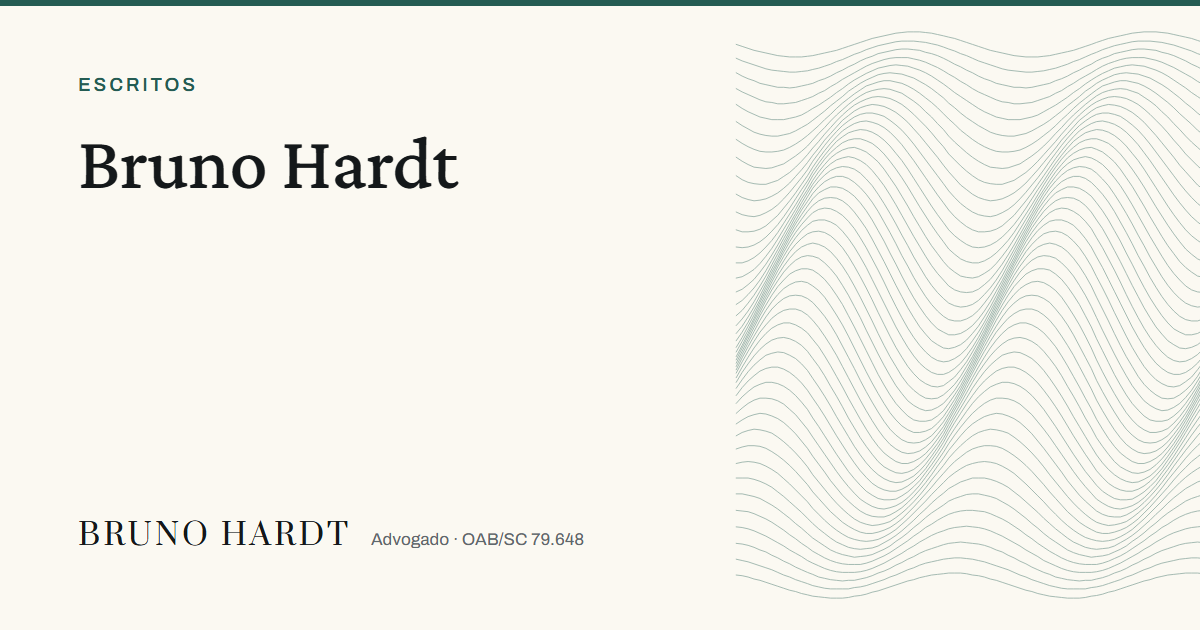
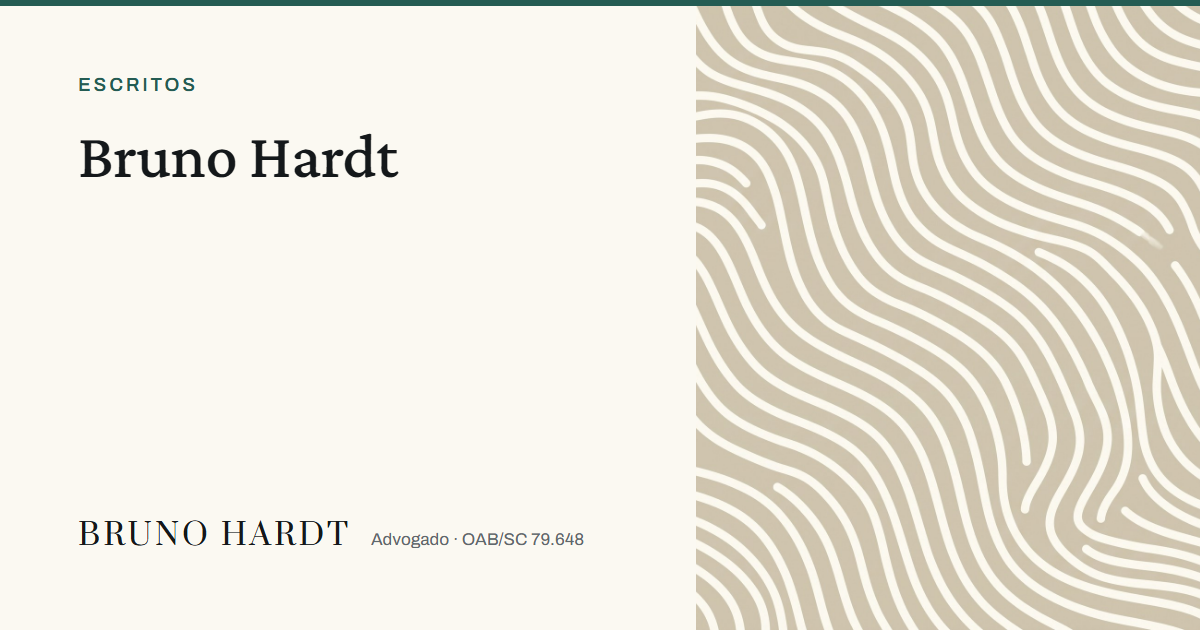
feat(chapas): a arte de ondas entra, e a tipografia sai de cima dela
As duas chapas de compartilhamento deixam de usar o guilhoche do escrito e
passam a usar uma arte so, reaproveitada em todos -- que e o que a Sullivan &
Cromwell faz na peca editorial: forma abstrata neutra, dois tons, contraste
baixo, sem relacao com o assunto. O sentido e do titulo; a imagem da peso.

Cada formato usa a arte cortada no proprio eixo longo: `onda-alta.jpg` na
tarja vertical da previa de link (504px a direita), `onda-larga.jpg` na faixa
do topo do feed (700px). Cortar contra o eixo esmaga o desenho.

E a tipografia deixou de flutuar sobre a figura: agora a caixa recua e o
titulo fica no marfim, ao lado da arte. E assim na referencia, e e o que
mantem o titulo legivel sobre um padrao.

As duas artes chegaram em 2,1 MB cada; foram reduzidas fora da montagem (o
Pillow nao e dependencia do build) para 195 e 213 KB, que e o suficiente para
as chapas em 1x.

O guilhoche continua na pagina -- cartao da capa e faixa do artigo. A excecao
esta escrita na ESPEC 3.

diff --git a/og.py b/og.py
@@ -27,21 +27,31 @@ SAIDA = os.path.join(ATIVOS, "og")
 # nao substitui o outro -- recortar a deitada em quadrado perde o titulo pelas
 # bordas, porque ela foi desenhada deitada. So a primeira e exigida pela
 # montagem; a de feed nao afeta o site e por isso nao derruba o build.
+# A arte e uma so, reaproveitada em todo escrito -- e o que a Sullivan &
+# Cromwell faz na peca editorial: forma abstrata neutra, dois tons, contraste
+# baixo, sem relacao com o assunto do texto. Quem carrega o sentido e o titulo.
+#
+# Cada formato usa a arte cortada no proprio eixo longo: a em pe na tarja
+# vertical da previa, a deitada na faixa do feed. Cortar contra o eixo esmaga
+# o desenho e some com o movimento das linhas.
+#
+# A tipografia nunca fica POR CIMA da arte: fica ao lado, no marfim. E assim
+# na referencia, e e o que mantem o titulo legivel.
 FORMATOS = (
     dict(sufixo=u"", larg=1200, alt=630,
-         pad=u"74px 78px", alto=u"720px",
-         fig=u"right:-150px;top:50%;transform:translateY(-50%);"
-             u"width:660px;height:660px",
+         pad=u"74px 78px", alto=u"100%",
+         arte=u"onda-alta.jpg",
+         tarja=u"right:0;top:0;width:504px;height:100%",
+         caixa=u"inset:0 504px 0 0",
          regua=6, rotulo_px=19, gap=26, marca_px=30, oab_px=17,
-         corpos=(76, 64, 54)),
+         corpos=(64, 54, 46)),
     dict(sufixo=u"-feed", larg=1080, alt=1350,
          pad=u"104px 92px", alto=u"100%",
-         # em pe sobra miolo: a figura cresce e sobe para o centro, em vez
-         # de se encolher num canto e deixar meia chapa vazia
-         fig=u"right:-170px;top:52%;transform:translateY(-50%);"
-             u"width:980px;height:980px",
+         arte=u"onda-larga.jpg",
+         tarja=u"left:0;top:0;width:100%;height:700px",
+         caixa=u"inset:700px 0 0 0",
          regua=8, rotulo_px=23, gap=34, marca_px=38, oab_px=21,
-         corpos=(112, 94, 78)),
+         corpos=(96, 82, 68)),
 )
 
 CAB = re.compile(r"^---\s*\n(.*?)\n---\s*\n", re.S)
@@ -85,11 +95,11 @@ CARTAO = u"""<!doctype html><html lang="pt-BR"><head><meta charset="utf-8">
     width:%(larg)dpx;height:%(alt)dpx;overflow:hidden;position:relative;
     background:#FBF9F2;color:#14181A;
   }
-  /* o guilhoché sangra pela direita: presença, não ilustração */
-  .figura{position:absolute;%(fig)s;opacity:.5}
+  /* a arte ocupa uma tarja inteira e sangra: presença, não ilustração */
+  .figura{position:absolute;%(tarja)s;object-fit:cover;display:block}
   .regua{position:absolute;left:0;top:0;width:100%%;height:%(regua)dpx;background:#245C53}
   .caixa{
-    position:absolute;inset:0;padding:%(pad)s;
+    position:absolute;%(caixa)s;padding:%(pad)s;
     display:flex;flex-direction:column;justify-content:space-between;
   }
   .alto{max-width:%(alto)s}
@@ -165,12 +175,10 @@ def main():
             continue
         chapas.append((slug,
                        meta.get("categoria", u"Escrito"),
-                       meta.get("titulo", slug),
-                       uri("guilhoche-%s.svg" % meta.get("guilhoche", "1"))))
+                       meta.get("titulo", slug)))
 
     # a chapa do site: capa, atuação, sobre e índice compartilham esta
-    chapas.append((u"site", u"Escritos",
-                   u"Bruno Hardt", uri("guilhoche-2.svg")))
+    chapas.append((u"site", u"Escritos", u"Bruno Hardt"))
 
     temp = os.path.join(SAIDA, "_chapa.html")
     with sync_playwright() as pw:
@@ -179,9 +187,10 @@ def main():
             pag = navegador.new_page(
                 viewport={"width": f["larg"], "height": f["alt"]},
                 device_scale_factor=1)
-            for slug, rotulo, titulo, figura in chapas:
+            arte = uri(os.path.join("img", f["arte"]))
+            for slug, rotulo, titulo in chapas:
                 io.open(temp, "w", encoding="utf-8", newline="\n").write(
-                    cartao(rotulo, titulo, figura, f))
+                    cartao(rotulo, titulo, arte, f))
                 pag.goto("file:///" + temp.replace("\\", "/"))
                 pag.wait_for_timeout(120)      # as fontes terminam de assentar
                 nome = slug + f["sufixo"] + ".png"

diff --git a/ESPEC.md b/ESPEC.md
@@ -183,16 +183,30 @@ Peça errada se corrige; publicado erra na frente de todo mundo.
 | Marca | **Prata** (família `Marca`), caixa-alta, entreletra larga |
 | Título e corpo | **Crimson Pro** (família `Serifada`), garalda |
 | Rótulo, dek, data, navegação | **Archivo** (família `Grotesca`) |
-| Figura | guilhoché — epitrocoides geradas, uma por escrito |
+| Figura | na página, guilhoché gerado, um por escrito · nas chapas de compartilhamento, a arte de ondas, uma só para todas |
 
 **A regra tipográfica, medida no site da S&C:** serifada só em título, marca e
 corpo. Rótulo, data e navegação são grotesca. **Data em serifada é o que faz um
 site parecer blog.**
 
-As figuras são **geradas** por `guilhoche.py`, nunca desenhadas: variante nova é
-parâmetro novo, não arquivo novo. A faixa larga do topo do artigo usa
-**variantes horizontais da curva de interferência** — a roseta não sobrevive ao
-recorte em 16:5, e uma forma espelhada por acidente é pior que figura nenhuma.
+As figuras **da página** são geradas por `guilhoche.py`, nunca desenhadas:
+variante nova é parâmetro novo, não arquivo novo. A faixa larga do topo do
+artigo usa **variantes horizontais da curva de interferência** — a roseta não
+sobrevive ao recorte em 16:5, e uma forma espelhada por acidente é pior que
+figura nenhuma.
+
+**As chapas de compartilhamento são a exceção, e ela foi medida na S&C.** Ali a
+peça editorial não traz ilustração feita para o texto: traz uma forma abstrata
+neutra, de dois tons e contraste baixo, **reaproveitada em toda publicação** —
+o mesmo arquivo aparece embaixo de qualquer título. Quem carrega o sentido é o
+título, e a imagem existe para dar peso, não para explicar.
+
+Por isso a chapa usa `ativos/img/onda-alta.jpg` e `ativos/img/onda-larga.jpg`,
+uma arte só para todos os escritos: ondas em marfim sobre pedra, sangrando pelos
+quatro lados. Cada formato usa a que se corta no **próprio eixo longo** — a em
+pé na tarja vertical da prévia, a deitada na faixa do feed —, porque cortar
+contra o eixo esmaga o desenho. E **a tipografia nunca fica por cima da arte:**
+fica ao lado, no marfim, que é o que mantém o título legível.
 
 Nenhum valor de cor, corpo ou espaço é escrito à mão fora de
 `ativos/estilo/10-tokens.css`.
@@ -337,7 +351,7 @@ apenas recusa publicar sem elas, ou com elas velhas.
   aceitando o custo da migração: `SITE` no `montar.py`, canonical, `og:url` e os
   dois `@id` do JSON-LD, mais todo link já compartilhado apontando para o
   endereço velho.
-- **Duas chapas por escrito**, geradas do mesmo guilhoché: `og/<slug>.png` em
+- **Duas chapas por escrito**, com a mesma arte de ondas: `og/<slug>.png` em
   1200×630, que é a prévia de link, e `og/<slug>-feed.png` em 1080×1350, que é o
   post do Instagram. São formatos com trabalhos diferentes, e um não substitui o
   outro. A montagem exige só a primeira: link compartilhado sem `og:image`
